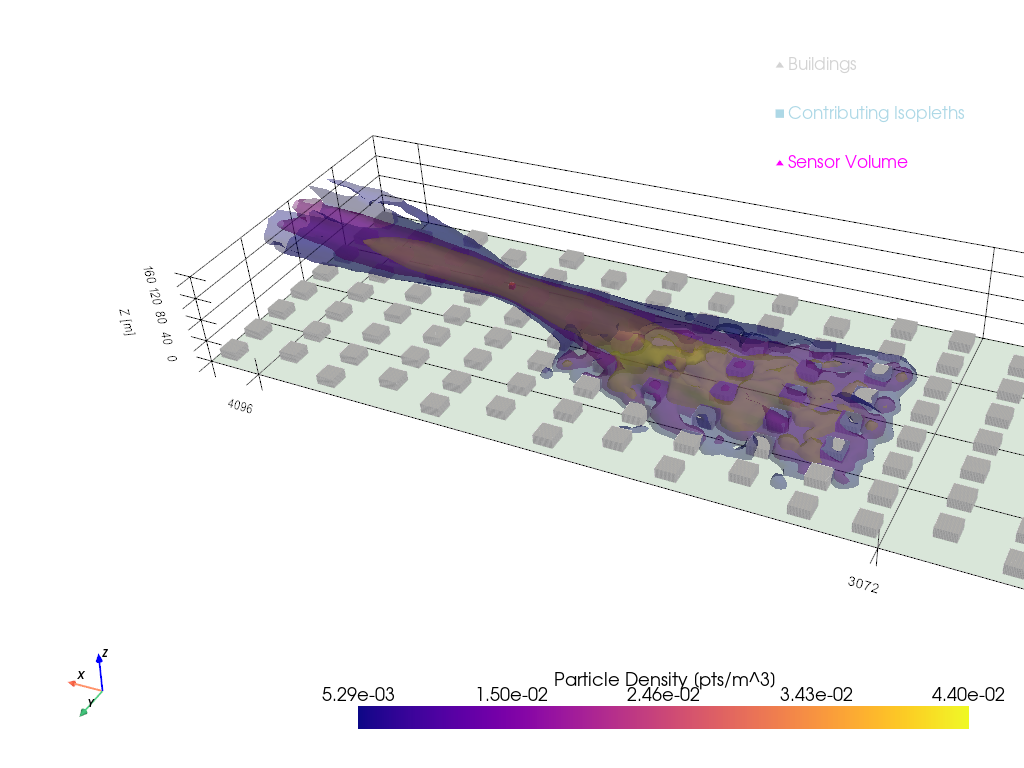
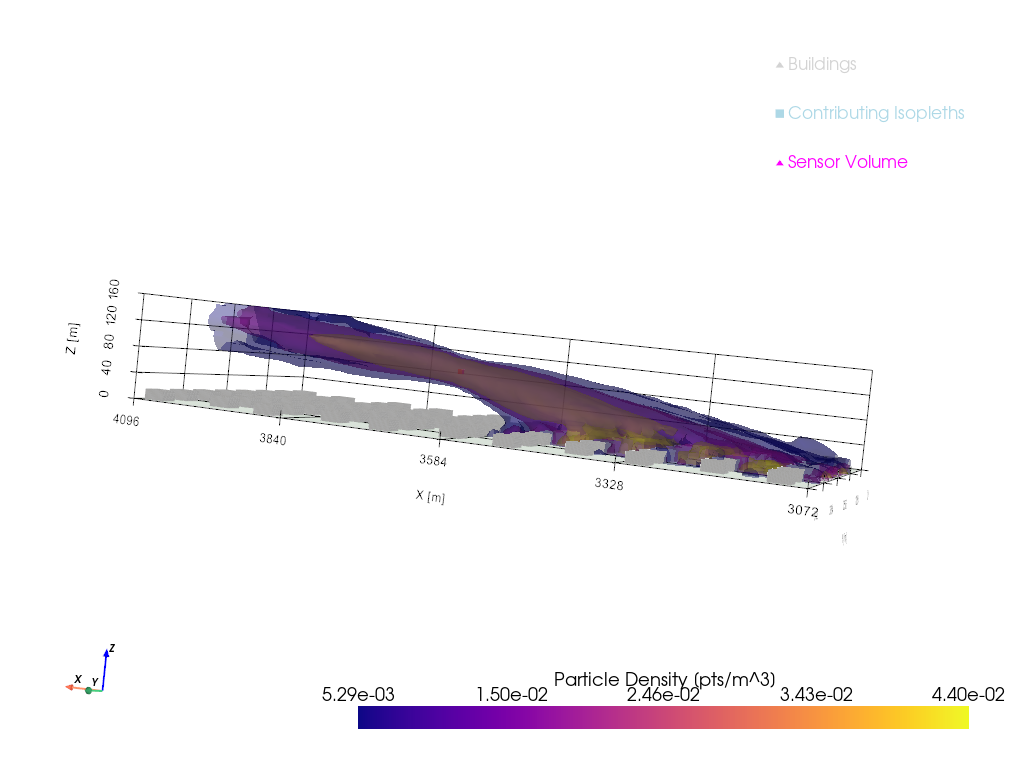
isopleths and sensor density cloud plots

diff --git a/scripts/plot_sensor_density_cloud.py b/scripts/plot_sensor_density_cloud.py
@@ -8,9 +8,12 @@ from plotting_core.particle_3d_plots import plot_density_cloud_with_sensor
 
 def main():
     # --- Configuration ---
-    map_dir = r"Z:\map\map_flat_16m_approach.dat"
-    time_capsule_file = r"Z:\Particle_PostProcess_Outputs\20260630_particle_flat_16mapproach\sensor_8x8x8\1200-1800_sensor_density\sensor_hit_ids.txt"
-    trajectory_csv = r"Z:\Particle_PostProcess_Outputs\20260630_particle_flat_16mapproach\sensor_8x8x8\1200-1800_sensor_density\target_trajectories.csv"
+    # map_dir = r"Z:\map\map_flat_16m_approach.dat"
+    # time_capsule_file = r"Z:\Particle_PostProcess_Outputs\20260630_particle_flat_16mapproach\sensor_8x8x8\1200-1800_sensor_density\sensor_hit_ids.txt"
+    # trajectory_csv = r"Z:\Particle_PostProcess_Outputs\20260630_particle_flat_16mapproach\sensor_8x8x8\1200-1800_sensor_density\target_trajectories.csv"
+    map_dir = r"C:\Users\Mikael Wijaya\Documents\GitHub\lbm-cuda-project\map\map_cube_16m_approach.dat"
+    time_capsule_file = r"D:\lbm_results\Particle_PostProcess_Outputs\20260803_particle_cube_16mapproach\sensor_8x8x8\1200-1800_sensor_density\sensor_hit_ids.txt"
+    trajectory_csv = r"D:\lbm_results\Particle_PostProcess_Outputs\20260803_particle_cube_16mapproach\sensor_8x8x8\1200-1800_sensor_density\target_trajectories.csv"
 
     dx = 2.0
     dz = 2.0
@@ -22,7 +25,7 @@ def main():
     loc_folder = f"loc_{sensor_center[0]}_{sensor_center[1]}_{sensor_center[2]}"
     
     output_path = os.path.join(
-        "../figures", "20260630_particle_flat_16mapproach_clouds", sensor_folder, loc_folder,
+        "../figures", "20260803_particle_cube_16mapproach_clouds", sensor_folder, loc_folder,
         f"density_cloud_sensor_{target_sensor_id}.png"
     )
 
@@ -43,7 +46,9 @@ def main():
         voxel_res=8.0,    # 2.0m isotropic voxel grid
         sigma=1.2,        # Gaussian smoothing radius (increase for a softer plume)
         z_max=160.0,       # Domain top boundary
-        density_mode="concentration"
+        density_mode="concentration",
+        crop_approach=True,
+        x_start=3072.0
     )
 
 if __name__ == "__main__":

diff --git a/scripts/plot_sensor_density_isosurfaces.py b/scripts/plot_sensor_density_isosurfaces.py
@@ -8,9 +8,12 @@ from plotting_core.particle_3d_plots import plot_density_isopleths_with_sensor
 
 def main():
     # --- Configuration ---
-    map_dir = r"Z:\map\map_cube_16m_approach.dat"
-    time_capsule_file = r"Z:\Particle_PostProcess_Outputs\20260803_particle_cube_16mapproach\sensor_8x8x8\1200-1800_sensor_density\sensor_hit_ids.txt"
-    trajectory_csv = r"Z:\Particle_PostProcess_Outputs\20260803_particle_cube_16mapproach\sensor_8x8x8\1200-1800_sensor_density\target_trajectories.csv"
+    # map_dir = r"Z:\map\map_cube_16m_approach.dat"
+    # time_capsule_file = r"Z:\Particle_PostProcess_Outputs\20260803_particle_cube_16mapproach\sensor_8x8x8\1200-1800_sensor_density\sensor_hit_ids.txt"
+    # trajectory_csv = r"Z:\Particle_PostProcess_Outputs\20260803_particle_cube_16mapproach\sensor_8x8x8\1200-1800_sensor_density\target_trajectories.csv"
+    map_dir = r"C:\Users\Mikael Wijaya\Documents\GitHub\lbm-cuda-project\map\map_flat_16m_approach.dat"
+    time_capsule_file = r"D:\lbm_results\Particle_PostProcess_Outputs\20260630_particle_flat_16mapproach\sensor_8x8x8\1200-1800_sensor_density\sensor_hit_ids.txt"
+    trajectory_csv = r"D:\lbm_results\Particle_PostProcess_Outputs\20260630_particle_flat_16mapproach\sensor_8x8x8\1200-1800_sensor_density\target_trajectories.csv"
 
     dx = 2.0
     target_sensor_id = 4
@@ -21,7 +24,7 @@ def main():
     loc_folder = f"loc_{sensor_center[0]}_{sensor_center[1]}_{sensor_center[2]}"
     
     output_path = os.path.join(
-        "../figures", "20260803_particle_cube_16mapproach_isopleths", sensor_folder, loc_folder,
+        "../figures", "20260630_particle_flat_16mapproach_isopleths", sensor_folder, loc_folder,
         f"isopleths_sensor_{target_sensor_id}.png"
     )
 
@@ -43,7 +46,9 @@ def main():
         z_max=160.0,
         density_mode="concentration",
         cumulative_levels=[0.50, 0.80, 0.95],  # 50%, 80%, 95% enclosed volume envelopes
-        shell_opacity=0.40
+        shell_opacity=0.40,
+        crop_approach=True,
+        x_start=3072.0
     )
 
 if __name__ == "__main__":
